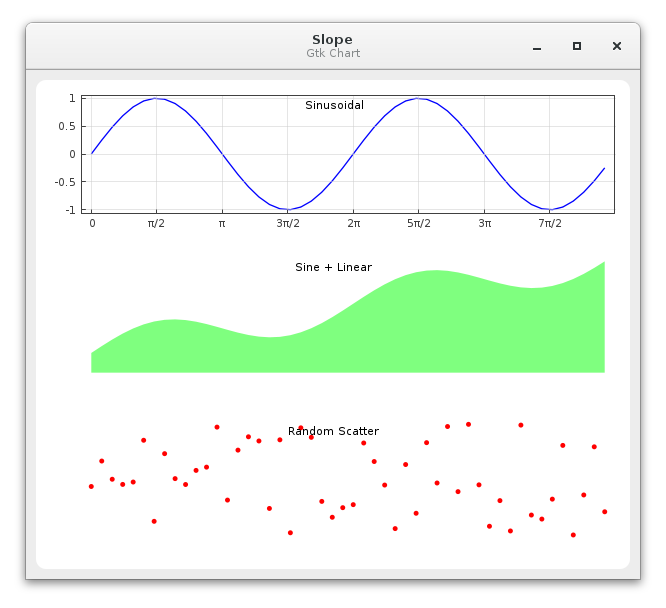
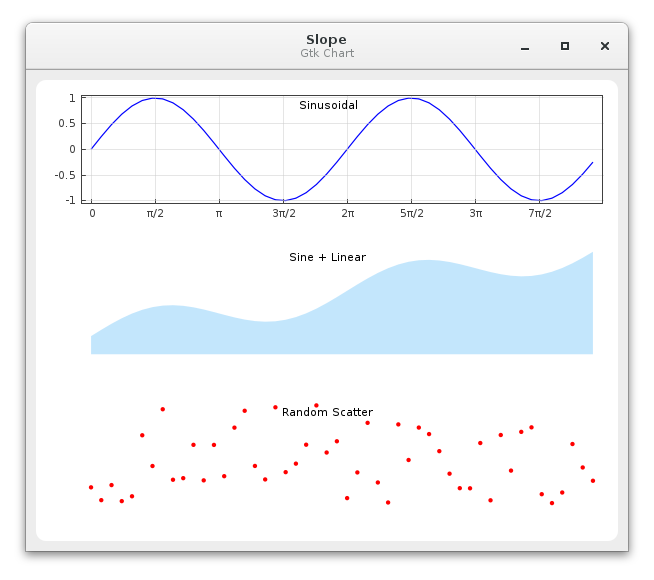
update screenshot

diff --git a/src/slope/xyseries.c b/src/slope/xyseries.c
@@ -81,8 +81,8 @@ slope_xyseries_init (SlopeXySeries *self)
     priv->mode = SLOPE_SERIES_CIRCLES;
     priv->stroke_color = SLOPE_BLUE;
     priv->fill_color = SLOPE_RED;
-    priv->line_width = 1.32;
-    priv->symbol_radius = 2.5;
+    priv->line_width = 1.0;
+    priv->symbol_radius = 2.2;
 }
 
 
@@ -360,7 +360,7 @@ slope_xyseries_set_style (SlopeXySeries *self, const char *style)
 {
     SlopeXySeriesPrivate *priv = SLOPE_XYSERIES_GET_PRIVATE(self);
     SlopeColor fill_color=SLOPE_RED, stroke_color=SLOPE_BLUE;
-    double line_width=1.32;
+    double line_width=1.2;
     int mode=SLOPE_SERIES_LINE, k=0;
 
     /* parse the stroke and fill colors */

diff --git a/demos/complete.c b/demos/complete.c
@@ -104,7 +104,7 @@ int main(int argc, char *argv[])
     series1 = slope_xyseries_new_filled("Sine", x, y1, n, "b-");
     slope_scale_add_item(scale1, series1);
 
-    series2 = slope_xyseries_new_filled("Sine + Linear", x, y2, n, "ga");
+    series2 = slope_xyseries_new_filled("Sine + Linear", x, y2, n, "la");
     slope_scale_add_item(scale2, series2);
 
     series3 = slope_xyseries_new_filled("Scatter", x, y3, n, "ro");
